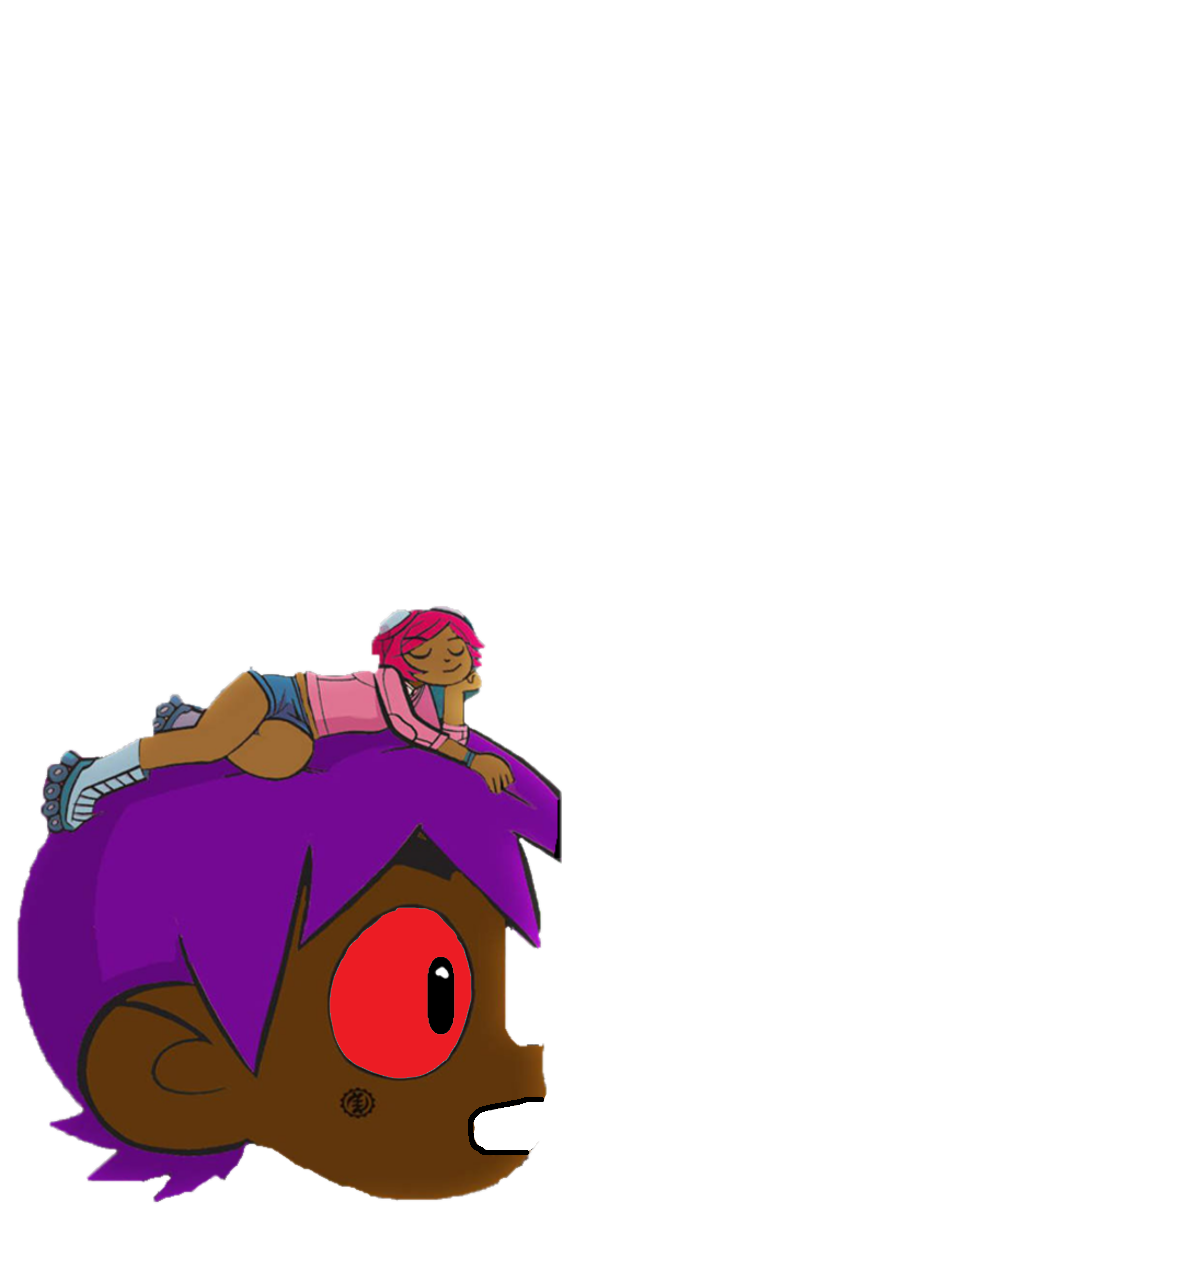
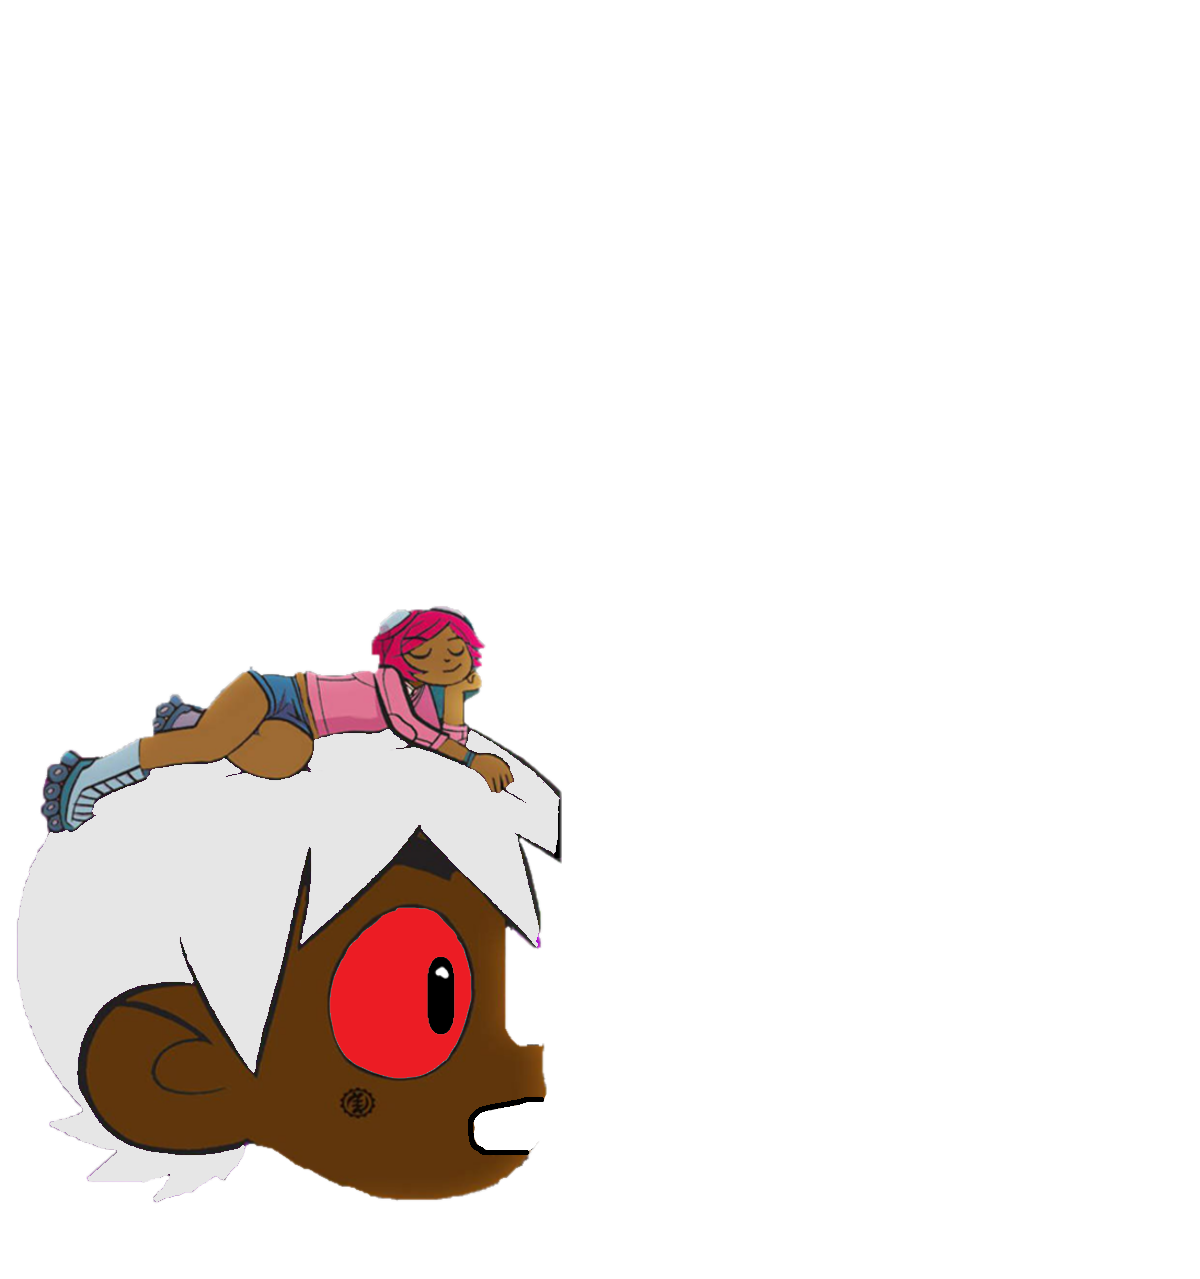
uzi now changes color will space

Changed region(s): [[0.0, 0.5489, 0.4625, 0.9453]]

diff --git a/pewpew/sketch.js b/pewpew/sketch.js
@@ -4,21 +4,23 @@ let x = 200;
 let y = 200;
 
 
-
+let uziVert = true;
 let movingLeft = false;
 let movingRight = false;
 let isJump = false;
 let isFalling = true;
+let isAttack = false;
 function preload() {
   uzi = loadImage("assets/uzi.png");
   br = loadImage("assets/pewpew.jpg");
+  vert = loadImage("assets/uzishoot.png");
 }
 
 function setup(){
   w = windowWidth/2;
   h = windowHeight/2;
   createCanvas(windowWidth, windowHeight);
-  //imageMode(Corner);
+  
   
 }
 
@@ -28,11 +30,14 @@ function draw() {
   background(br);
   moveUzi();
   fill(0);
-  imageMode(CENTER)
-  image(uzi, x, y, 350, 350);
+
 }
 
 function moveUzi() {
+  if (uziVert) {
+    imageMode(CENTER)
+    image(uzi, x, y, 350, 350);
+  }
   if (movingLeft) {
     x -=3;
   }
@@ -44,6 +49,10 @@ function moveUzi() {
   }
   if (isFalling) {
     y+= 5;
+  }
+  if (isAttack) {
+    uziAttack();
+    
   }
 }
 
@@ -58,6 +67,10 @@ function keyPressed() {
     isJump = true;
     isFalling = false;
   }
+  if (key === " ") {
+    isAttack = true; 
+    uziVert = false;   
+  }
 }
 
 function keyReleased() {
@@ -71,9 +84,17 @@ function keyReleased() {
     isJump = false;
     isFalling = true;
   }
+  if (key === " ") {
+    isAttack = false;
+    uziVert = true;
+  }
 }
 
-//function uziAttack();
+function uziAttack() {
+  imageMode(CENTER);
+  image(vert, x, y, 350, 350);
+
+}
 
 
 
